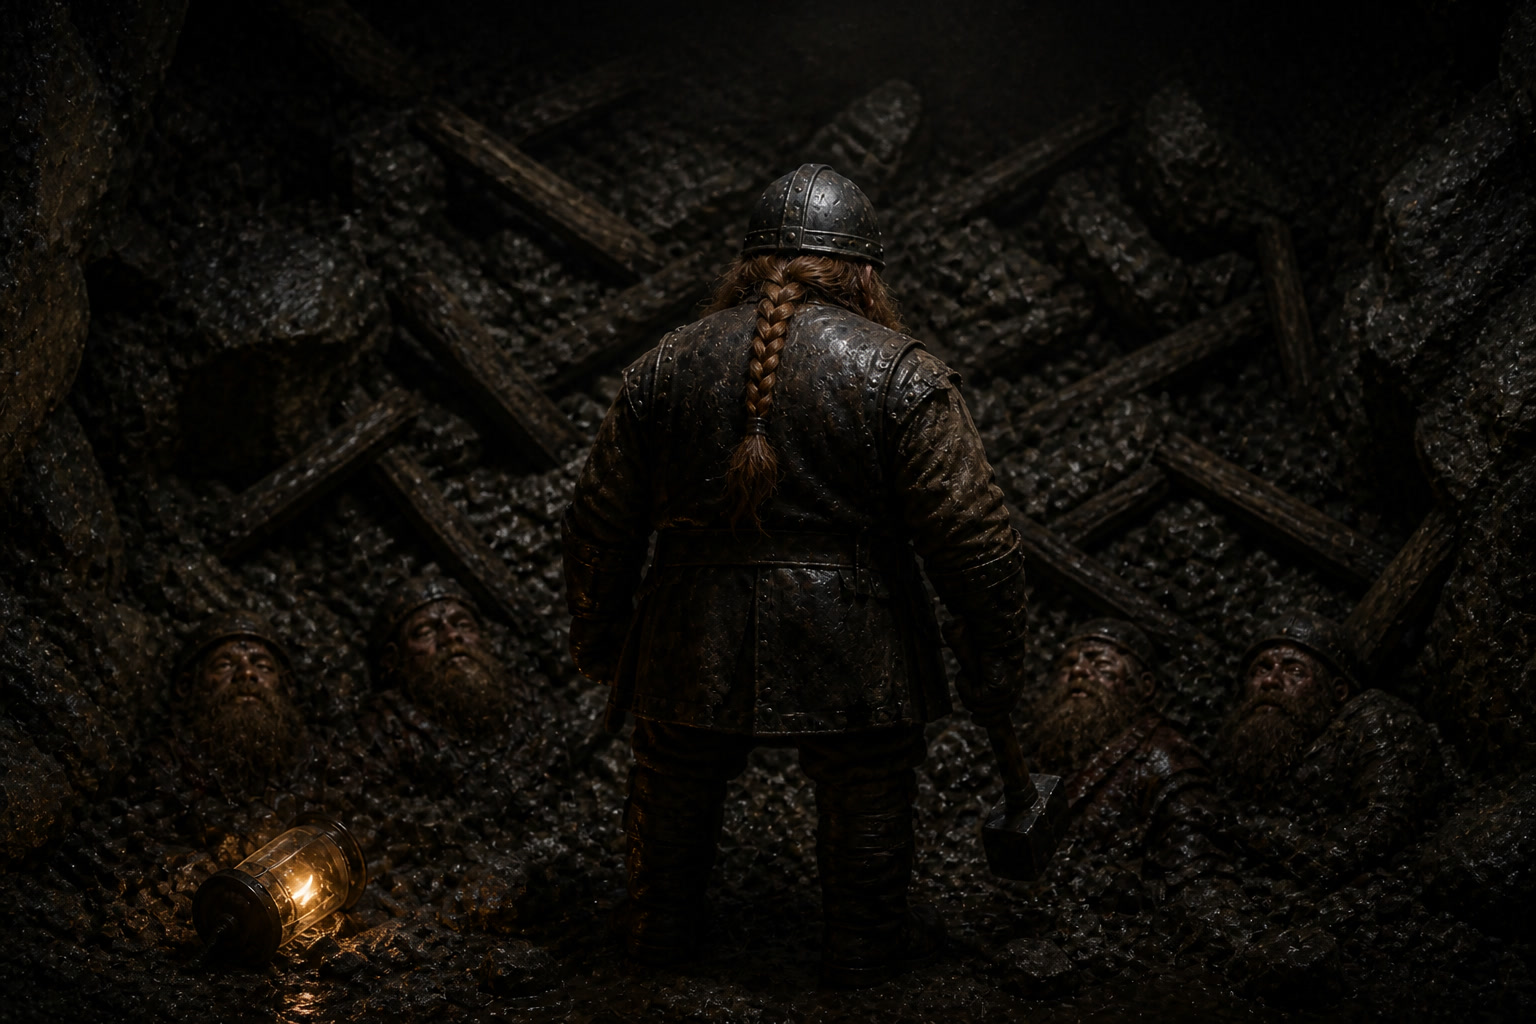
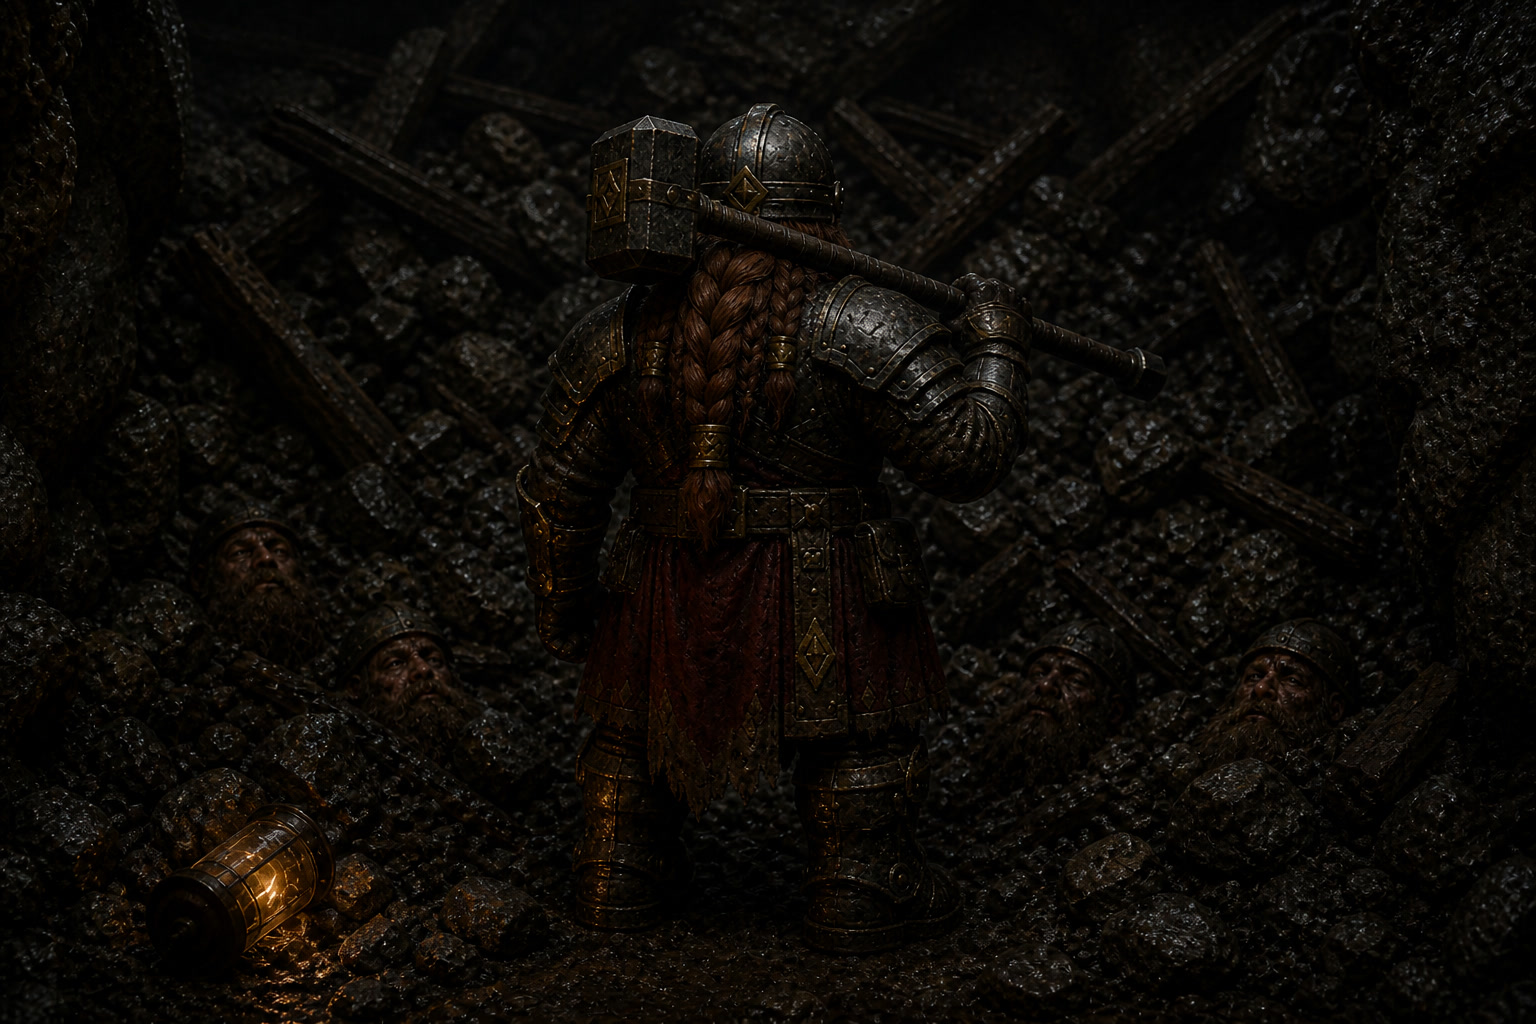
Put Macar's maul on his shoulder and paint true NW walks.
Title and Chapter I stills now show the two-hand maul resting on the shoulder, not hanging at his side. Walk facing uses eight iso octants so W+A is a painted back-left sheet for the whole party, not a leftover SE idle.

diff --git a/index.html b/index.html
@@ -10,8 +10,8 @@
 <link rel="preconnect" href="https://fonts.googleapis.com">
 <link rel="preconnect" href="https://fonts.gstatic.com" crossorigin>
 <link href="https://fonts.googleapis.com/css2?family=Cinzel:wght@600;700;800&family=Cinzel+Decorative:wght@700;900&family=Cormorant+Garamond:ital,wght@1,600;1,700&display=swap" rel="stylesheet">
-<link rel="preload" as="image" href="assets/ui/title_splash.jpg?v=62">
-<link rel="preload" as="image" href="assets/ui/intro_ch1.jpg?v=62">
+<link rel="preload" as="image" href="assets/ui/title_splash.jpg?v=64">
+<link rel="preload" as="image" href="assets/ui/intro_ch1.jpg?v=64">
 <link rel="preload" as="image" href="assets/ui/chapters_plate.jpg?v=62">
 <link rel="preload" as="image" href="assets/tiles/tile_floor_mine.png?v=60">
 <link rel="preload" as="image" href="assets/tiles/tile_wall_worked.png?v=60">
@@ -330,7 +330,7 @@ const FONT_QUOTE='"Cormorant Garamond",Palatino,Georgia,serif';
 
 /* ---------------------------- painted sprites (Baldur's Gate isometric) ---------------------------- */
 const SPR={};
-const ASSET_VER='63';
+const ASSET_VER='64';
 let SPLASH_STATE='loading';
 function assetUrl(src){
   const u=src+(src.indexOf('?')>=0?'&':'?')+'v='+ASSET_VER;
@@ -580,6 +580,18 @@ SPRITE_FILES.macar_axe_e_atk='assets/creatures/dwarf_macar_axe_e_atk.png';
   SPRITE_FILES[k+'_ghost_s_w1']='assets/creatures/dwarf_'+k+'_ghost_s_w1.png';
   SPRITE_FILES[k+'_ghost_s_w2']='assets/creatures/dwarf_'+k+'_ghost_s_w2.png';
 });
+['macar','macar_axe'].forEach(k=>{
+  ['nw','ne','se'].forEach(ang=>{
+    SPRITE_FILES[k+'_'+ang+'_w1']='assets/creatures/dwarf_'+k+'_'+ang+'_w1.png';
+    SPRITE_FILES[k+'_'+ang+'_w2']='assets/creatures/dwarf_'+k+'_'+ang+'_w2.png';
+  });
+});
+['pordoom','fendur','orbo','talpor'].forEach(k=>{
+  ['nw','ne','se'].forEach(ang=>{
+    SPRITE_FILES[k+'_ghost_'+ang+'_w1']='assets/creatures/dwarf_'+k+'_ghost_'+ang+'_w1.png';
+    SPRITE_FILES[k+'_ghost_'+ang+'_w2']='assets/creatures/dwarf_'+k+'_ghost_'+ang+'_w2.png';
+  });
+});
 const ICON_SPR={
   sword:'icon_sword', flask:'icon_flask', shield:'icon_shield', pack:'icon_pack',
   cross:'icon_cross', hammer:'icon_attack', pick:'icon_sword', bomb:'icon_bomb',
@@ -621,10 +633,15 @@ function loadSprites(done){
     'orbo_ghost_w1','orbo_ghost_w2','orbo_ghost_atk','orbo_ghost_atk_recover','orbo_ghost_back_w1','orbo_ghost_back_w2',
     'talpor_ghost_w1','talpor_ghost_w2','talpor_ghost_atk','talpor_ghost_atk_recover','talpor_ghost_back_w1','talpor_ghost_back_w2',
     'macar_e_w1','macar_e_w2','macar_s_w1','macar_s_w2','macar_e_atk',
+    'macar_nw_w1','macar_nw_w2','macar_ne_w1','macar_ne_w2','macar_se_w1','macar_se_w2',
     'pordoom_ghost_e_w1','pordoom_ghost_e_w2','pordoom_ghost_s_w1','pordoom_ghost_s_w2',
     'fendur_ghost_e_w1','fendur_ghost_e_w2','fendur_ghost_s_w1','fendur_ghost_s_w2',
     'orbo_ghost_e_w1','orbo_ghost_e_w2','orbo_ghost_s_w1','orbo_ghost_s_w2',
     'talpor_ghost_e_w1','talpor_ghost_e_w2','talpor_ghost_s_w1','talpor_ghost_s_w2',
+    'pordoom_ghost_nw_w1','pordoom_ghost_nw_w2','pordoom_ghost_ne_w1','pordoom_ghost_ne_w2','pordoom_ghost_se_w1','pordoom_ghost_se_w2',
+    'fendur_ghost_nw_w1','fendur_ghost_nw_w2','fendur_ghost_ne_w1','fendur_ghost_ne_w2','fendur_ghost_se_w1','fendur_ghost_se_w2',
+    'orbo_ghost_nw_w1','orbo_ghost_nw_w2','orbo_ghost_ne_w1','orbo_ghost_ne_w2','orbo_ghost_se_w1','orbo_ghost_se_w2',
+    'talpor_ghost_nw_w1','talpor_ghost_nw_w2','talpor_ghost_ne_w1','talpor_ghost_ne_w2','talpor_ghost_se_w1','talpor_ghost_se_w2',
     'macar_w1','macar_w2','macar_atk','macar_atk_bow','macar_atk_recover','macar_axe_w1','macar_axe_w2','macar_axe_atk','macar_axe_atk_recover','macar_axe_back','macar_axe_back_w1','macar_axe_back_w2','macar_sleep',
     'thinone_dead','goblin_dead','goblin_king','warg','spider_dead','spider_giant_dead','loot_coins','loot_ruby','loot_ruby_shard','loot_chest','loot_gems','loot_jewelry','loot_potion','loot_herbs','loot_ore',
     'cavein',
@@ -793,7 +810,7 @@ function frameFit(e,img){
   const k=entSpriteKey(e);
   if(!k) return 1;
   if(SPR[k]===img) return FRAME_FIT[k]||1;
-  for(const suffix of ['_atk_recover','_atk_bow','_e_atk','_back_w1','_back_w2','_e_w1','_e_w2','_s_w1','_s_w2','_atk','_back','_w1','_w2','_sleep']){
+  for(const suffix of ['_atk_recover','_atk_bow','_e_atk','_back_w1','_back_w2','_e_w1','_e_w2','_s_w1','_s_w2','_nw_w1','_nw_w2','_ne_w1','_ne_w2','_se_w1','_se_w2','_atk','_back','_w1','_w2','_sleep']){
     if(SPR[k+suffix]===img) return FRAME_FIT[k+suffix]||1;
   }
   return 1;
@@ -1313,26 +1330,34 @@ function faceVec(e){
   if(e.moving && ((e.ix||0)||(e.iy||0))) return {dx:e.ix||0, dy:e.iy||0};
   return {dx:e.fdx||0, dy:e.fdy||0};
 }
-function screenCardinal(e){
+function screenOctant(e){
   const v=faceVec(e);
   const sx=(v.dx||0)-(v.dy||0);
   const sy=(v.dx||0)+(v.dy||0);
-  if(Math.abs(sx)>=Math.abs(sy)) return sx>=0?'e':'w';
-  return sy>=0?'s':'n';
+  if(!(sx||sy)) return 's';
+  const deg=((Math.atan2(sy,sx)*180/Math.PI)+360)%360;
+  const bin=Math.round(deg/45)%8;
+  return ['e','se','s','sw','w','nw','n','ne'][bin];
+}
+function screenCardinal(e){
+  const o=screenOctant(e);
+  if(o==='se'||o==='sw') return o==='se'?'e':'w';
+  if(o==='ne'||o==='nw') return o==='ne'?'e':'w';
+  return o;
 }
 function wantsBackView(e){
   if(!e||e.dead||e.crushed||e.sleeping) return false;
   if(e.defending) return true;
   const p=player();
   if(e.team==='party' && e.ghost && p && p.defending) return true;
-  return screenCardinal(e)==='n';
+  return screenOctant(e)==='n';
 }
 function moveHeadingSX(e){
   const v=faceVec(e);
   return (v.dx||0)-(v.dy||0);
 }
 function dwarfAngleKey(e,k){
-  const card=screenCardinal(e);
+  const oct=screenOctant(e);
   const moving=QUALITY && e.moving && !e.defending;
   const phase=((e.gait||0)%1)<0.5?'w1':'w2';
   function gait(a,b,idle){
@@ -1347,7 +1372,7 @@ function dwarfAngleKey(e,k){
     if(b && SPR[b]) return b;
     return null;
   }
-  if(card==='n'){
+  if(oct==='n'){
     const macarKey=(k==='macar'||k==='macar_axe');
     const aKey=k+'_back_w1', bKey=k+'_back_w2';
     const a=SPR[aKey]?aKey:(macarKey&&SPR.macar_back_w1?'macar_back_w1':null);
@@ -1358,18 +1383,23 @@ function dwarfAngleKey(e,k){
     if(macarKey && SPR.macar_back) return 'macar_back';
     return null;
   }
-  if(card==='s') return gait(k+'_s_w1', k+'_s_w2', k+'_s');
+  if(oct==='s') return gait(k+'_s_w1', k+'_s_w2', k+'_s');
+  if(oct==='nw') return gait(k+'_nw_w1', k+'_nw_w2', k+'_nw');
+  if(oct==='ne') return gait(k+'_ne_w1', k+'_ne_w2', k+'_ne');
+  if(oct==='se'||oct==='sw') return gait(k+'_se_w1', k+'_se_w2', k);
   let ek=k;
   if(!(SPR[k+'_e_w1']||SPR[k+'_e_w2']) && k==='macar_axe') ek='macar';
   return gait(ek+'_e_w1', ek+'_e_w2', ek+'_e');
 }
 function wantsSpriteFlip(e){
   if(!e||e.crushed||e.dead) return false;
-  const card=screenCardinal(e);
+  const oct=screenOctant(e);
   const key=entAnimKey(e)||'';
-  if(key.indexOf('_e_')>=0 || /_e$/.test(key)) return card==='w';
+  if(key.indexOf('_nw_')>=0 || key.indexOf('_ne_')>=0) return false;
+  if(key.indexOf('_se_')>=0) return oct==='sw';
+  if(key.indexOf('_e_')>=0 || /_e$/.test(key)) return oct==='w';
   if(key.indexOf('_s_')>=0 || /_s$/.test(key) || key.indexOf('_back')>=0) return false;
-  return card==='w';
+  return oct==='w'||oct==='sw';
 }
 function attackProgress(e){
   if(!e||!(e.atk>0)) return 0;

diff --git a/src/combat/DwarfFacing.test.js b/src/combat/DwarfFacing.test.js
@@ -14,21 +14,21 @@ function assert(cond, msg){
   else console.log('ok    '+msg);
 }
 
-assert(/function screenCardinal\(e\)\{/.test(html), 'screen cardinal is dx-dy vs dx+dy, not a per-frame table');
+assert(/function screenOctant\(e\)\{/.test(html), 'walk uses 8 iso octants, not a 4-way snap');
 assert(!/const DWARF_FACE_SX=\{/.test(html), 'old native-facing table is gone');
 assert(/function wantsSpriteFlip\(e\)\{/.test(html), 'billboard still mirrors west from the east sheet');
 assert(/function faceToward\(/.test(html) && /function faceVec\(/.test(html),
   'attack and walk heading share one face vector');
-assert(/function dwarfAngleKey\(/.test(html) && /function entAnimKey\(/.test(html),
-  'walk picks a painted east/south/back sheet from the cardinal');
+assert(/function dwarfAngleKey\(/.test(html) && /oct==='nw'/.test(html) && /k\+'_nw_w1'/.test(html),
+  'NW walk uses a painted back-left sheet');
 assert(/function moveHeadingSX\(e\)\{/.test(html), 'iso screen-x heading is ix-iy');
 assert(/blitFacing\(g,img,dx,dy,W,H,flip\)/.test(html),
   'billboard mirrors with negative-width drawImage, not a context scale the hero path can drop');
 assert(/function blitFacing\(g,img,dx,dy,W,H,flip\)\{/.test(html) &&
   /drawImage\(img, dx\+W, dy, -W, H\)/.test(html),
   'left-heading flip is a negative destination width');
-assert(/return screenCardinal\(e\)==='n'/.test(html),
-  'back view is iso north only — west walk keeps the side sheet');
+assert(/return screenOctant\(e\)==='n'/.test(html),
+  'full back view is screen-up only — NW uses the painted back-left sheet');
 assert(/Party kin share Macar heading/.test(html),
   'followers face Macar while they trail, not their scramble vector');
 assert(/lead\.fdx!=null\?lead\.fdx/.test(html),
@@ -43,8 +43,8 @@ assert(/faceToward\(p, foe\.x, foe\.y\)/.test(html), 'Attack snaps Macar toward 
 assert(/e\.fdx=dx; e\.fdy=dy/.test(html), 'walk snaps facing to the travel vector');
 assert(/k==='v'\) fire\('wall'\)/.test(html) && !/k==='d'\) fire\('wall'\)/.test(html),
   'D is walk-right, not Defend — V raises the shield');
-assert(/key\.indexOf\('_e_'\)>=0/.test(html) && /return card==='w'/.test(html),
-  'east sheets flip only for screen-west; they stay as painted on D');
+assert(/key\.indexOf\('_nw_'\)>=0/.test(html) && /key\.indexOf\('_se_'\)>=0/.test(html),
+  'NW sheets are never flipped; SE sheets flip only for SW');
 
 function faceVec(e, lead){
   if(!e) return {dx:0,dy:0};
@@ -60,38 +60,50 @@ function faceVec(e, lead){
   if(e.moving && ((e.ix||0)||(e.iy||0))) return {dx:e.ix||0, dy:e.iy||0};
   return {dx:e.fdx||0, dy:e.fdy||0};
 }
-function screenCardinal(e, lead){
+function screenOctant(e, lead){
   const v=faceVec(e, lead);
   const sx=(v.dx||0)-(v.dy||0);
   const sy=(v.dx||0)+(v.dy||0);
-  if(Math.abs(sx)>=Math.abs(sy)) return sx>=0?'e':'w';
-  return sy>=0?'s':'n';
+  if(!(sx||sy)) return 's';
+  const deg=((Math.atan2(sy,sx)*180/Math.PI)+360)%360;
+  const bin=Math.round(deg/45)%8;
+  return ['e','se','s','sw','w','nw','n','ne'][bin];
 }
 function wantsSpriteFlip(e, lead){
   if(!e||e.crushed||e.dead) return false;
-  const card=screenCardinal(e, lead);
+  const oct=screenOctant(e, lead);
   const key=e.animKey||'macar_e_w1';
-  if(key.indexOf('_e_')>=0 || /_e$/.test(key)) return card==='w';
+  if(key.indexOf('_nw_')>=0 || key.indexOf('_ne_')>=0) return false;
+  if(key.indexOf('_se_')>=0) return oct==='sw';
+  if(key.indexOf('_e_')>=0 || /_e$/.test(key)) return oct==='w';
   if(key.indexOf('_s_')>=0 || /_s$/.test(key) || key.indexOf('_back')>=0) return false;
-  return card==='w';
+  return oct==='w'||oct==='sw';
 }
 function wantsBackView(e, lead){
   if(!e||e.dead||e.crushed||e.sleeping) return false;
   if(e.defending) return true;
-  return screenCardinal(e, lead)==='n';
+  return screenOctant(e, lead)==='n';
 }
 
-assert(screenCardinal({moving:1, ix:0.7, iy:-0.7, fdx:0.7, fdy:-0.7})==='e',
-  'D / screen-right is the east cardinal');
-assert(screenCardinal({moving:1, ix:-0.7, iy:0.7, fdx:-0.7, fdy:0.7})==='w',
-  'A / screen-left is the west cardinal');
-assert(screenCardinal({moving:1, ix:-0.7, iy:-0.7, fdx:-0.7, fdy:-0.7})==='n',
-  'W / screen-up is the north cardinal');
-assert(screenCardinal({moving:1, ix:0.7, iy:0.7, fdx:0.7, fdy:0.7})==='s',
-  'S / screen-down is the south cardinal');
-assert(screenCardinal({moving:0, ix:0, iy:0, fdx:0, fdy:1})==='w' ||
-       screenCardinal({moving:0, ix:0, iy:0, fdx:0, fdy:1})==='s',
-  'fdx===0 is still a real heading, not a missing fallback');
+assert(screenOctant({moving:1, ix:0.7, iy:-0.7, fdx:0.7, fdy:-0.7})==='e',
+  'D / screen-right is east');
+assert(screenOctant({moving:1, ix:-0.7, iy:0.7, fdx:-0.7, fdy:0.7})==='w',
+  'A / screen-left is west');
+assert(screenOctant({moving:1, ix:-0.7, iy:-0.7, fdx:-0.7, fdy:-0.7})==='n',
+  'W / screen-up is north');
+assert(screenOctant({moving:1, ix:0.7, iy:0.7, fdx:0.7, fdy:0.7})==='s',
+  'S / screen-down is south');
+assert(screenOctant({moving:1, ix:-1, iy:0, fdx:-1, fdy:0})==='nw',
+  'W+A / world -x is northwest (screen top-left)');
+assert(screenOctant({moving:1, ix:0, iy:-1, fdx:0, fdy:-1})==='ne',
+  'W+D / world -y is northeast');
+assert(screenOctant({moving:1, ix:0, iy:1, fdx:0, fdy:1})==='sw',
+  'S+A / world +y is southwest');
+assert(screenOctant({moving:1, ix:1, iy:0, fdx:1, fdy:0})==='se',
+  'S+D / world +x is southeast');
+assert(!wantsSpriteFlip({animKey:'macar_nw_w1', moving:1, ix:-1, iy:0, fdx:-1, fdy:0}),
+  'NW sheet is painted back-left and is not flipped');
+assert(!wantsBackView({fdx:-1, fdy:0}), 'NW does not steal the straight-back sheet');
 
 const leftMacar={k:'macar', animKey:'macar_e_w1', moving:1, ix:-0.7, iy:0.7, fdx:-0.7, fdy:0.7};
 const rightMacar={k:'macar', animKey:'macar_e_w1', moving:1, ix:0.7, iy:-0.7, fdx:0.7, fdy:-0.7};
@@ -131,8 +143,10 @@ assert(wantsBackView({atk:0.4, aim:{x:9,y:9,dead:0}, x:10, y:10, fdx:0, fdy:1}),
 
 const root=path.join(__dirname,'../../assets/creatures');
 ['dwarf_macar_e_w1.png','dwarf_macar_e_w2.png','dwarf_macar_s_w1.png','dwarf_macar_s_w2.png',
+ 'dwarf_macar_nw_w1.png','dwarf_macar_ne_w1.png','dwarf_macar_se_w1.png',
  'dwarf_orbo_ghost_e_w1.png','dwarf_fendur_ghost_e_w1.png','dwarf_pordoom_ghost_e_w1.png','dwarf_talpor_ghost_e_w1.png',
  'dwarf_orbo_ghost_s_w1.png','dwarf_fendur_ghost_s_w1.png','dwarf_pordoom_ghost_s_w1.png','dwarf_talpor_ghost_s_w1.png',
+ 'dwarf_orbo_ghost_nw_w1.png','dwarf_fendur_ghost_nw_w1.png','dwarf_pordoom_ghost_nw_w1.png','dwarf_talpor_ghost_nw_w1.png',
  'dwarf_orbo_e_w1.png','dwarf_fendur_e_w1.png','dwarf_pordoom_e_w1.png','dwarf_talpor_e_w1.png']
   .forEach(f=>assert(fs.existsSync(path.join(root,f)), f+' exists'));
 

diff --git a/src/ui/Ch1RubbleLoad.test.js b/src/ui/Ch1RubbleLoad.test.js
@@ -45,7 +45,7 @@ assert(!/else if\(okTex\)\{/.test(html),
   'generated TEX diamonds are not a first-frame floor/wall fallback');
 assert(/tile_floor_mine\.png\?v=60/.test(html) && /tile_wall_worked\.png\?v=60/.test(html),
   'mine floor and worked wall are preloaded before first present');
-assert(/ASSET_VER='63'/.test(html), 'asset cache-bust matches the new walk sheets');
+assert(/ASSET_VER='64'/.test(html), 'asset cache-bust matches the maul stills and NW walks');
 assert(/chapters_plate\.jpg/.test(html) && fs.existsSync(path.join(__dirname,'../../assets/ui/chapters_plate.jpg')),
   'chapters plate art is in-repo');
 ['intro_ch1','intro_ch2','intro_ch3','intro_ch4','intro_ch5'].forEach(k=>{

diff --git a/src/combat/GhostSprites.test.js b/src/combat/GhostSprites.test.js
@@ -7,7 +7,7 @@ const fs=require('fs');
 const path=require('path');
 const html=fs.readFileSync(path.join(__dirname,'../../index.html'),'utf8');
 const KIN=['pordoom','fendur','orbo','talpor'];
-const FRAMES=['','_w1','_w2','_atk','_atk_recover','_back','_back_w1','_back_w2','_e_w1','_e_w2','_s_w1','_s_w2'];
+const FRAMES=['','_w1','_w2','_atk','_atk_recover','_back','_back_w1','_back_w2','_e_w1','_e_w2','_s_w1','_s_w2','_nw_w1','_nw_w2','_ne_w1','_ne_w2','_se_w1','_se_w2'];
 
 let failed=0;
 function assert(cond, msg){
